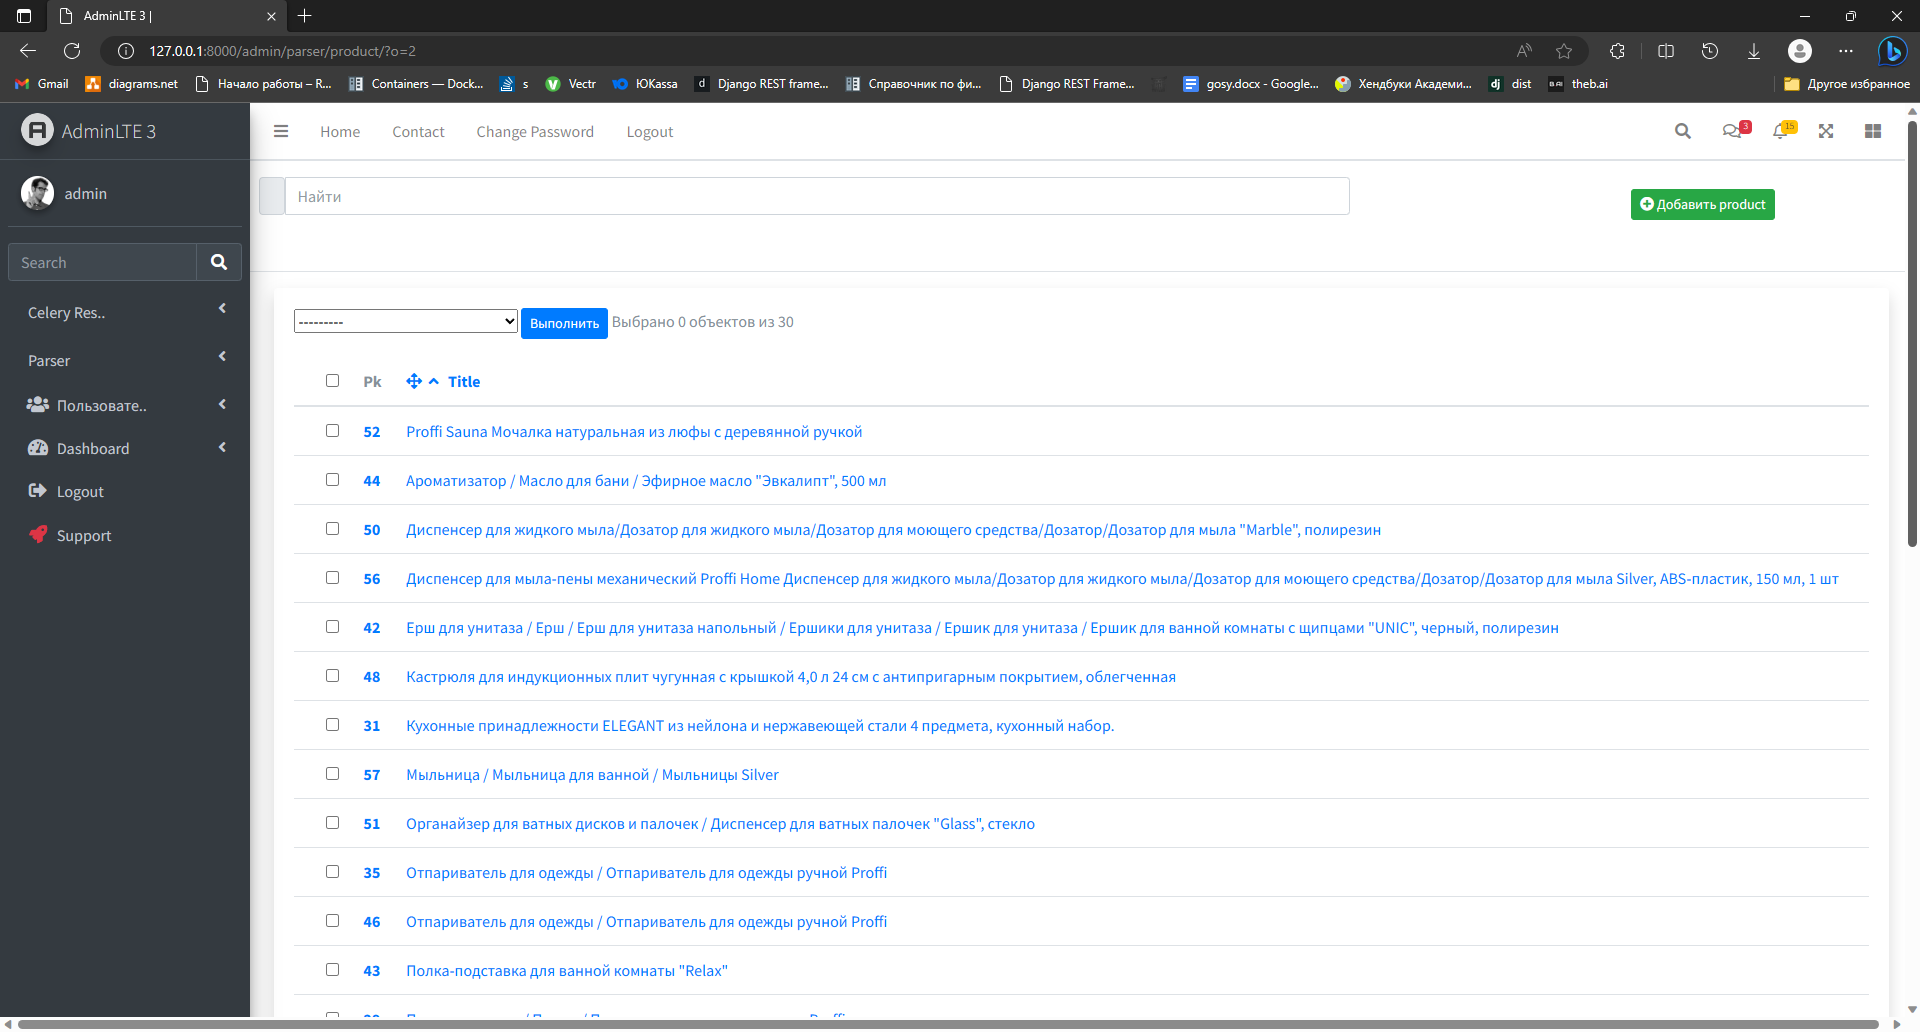
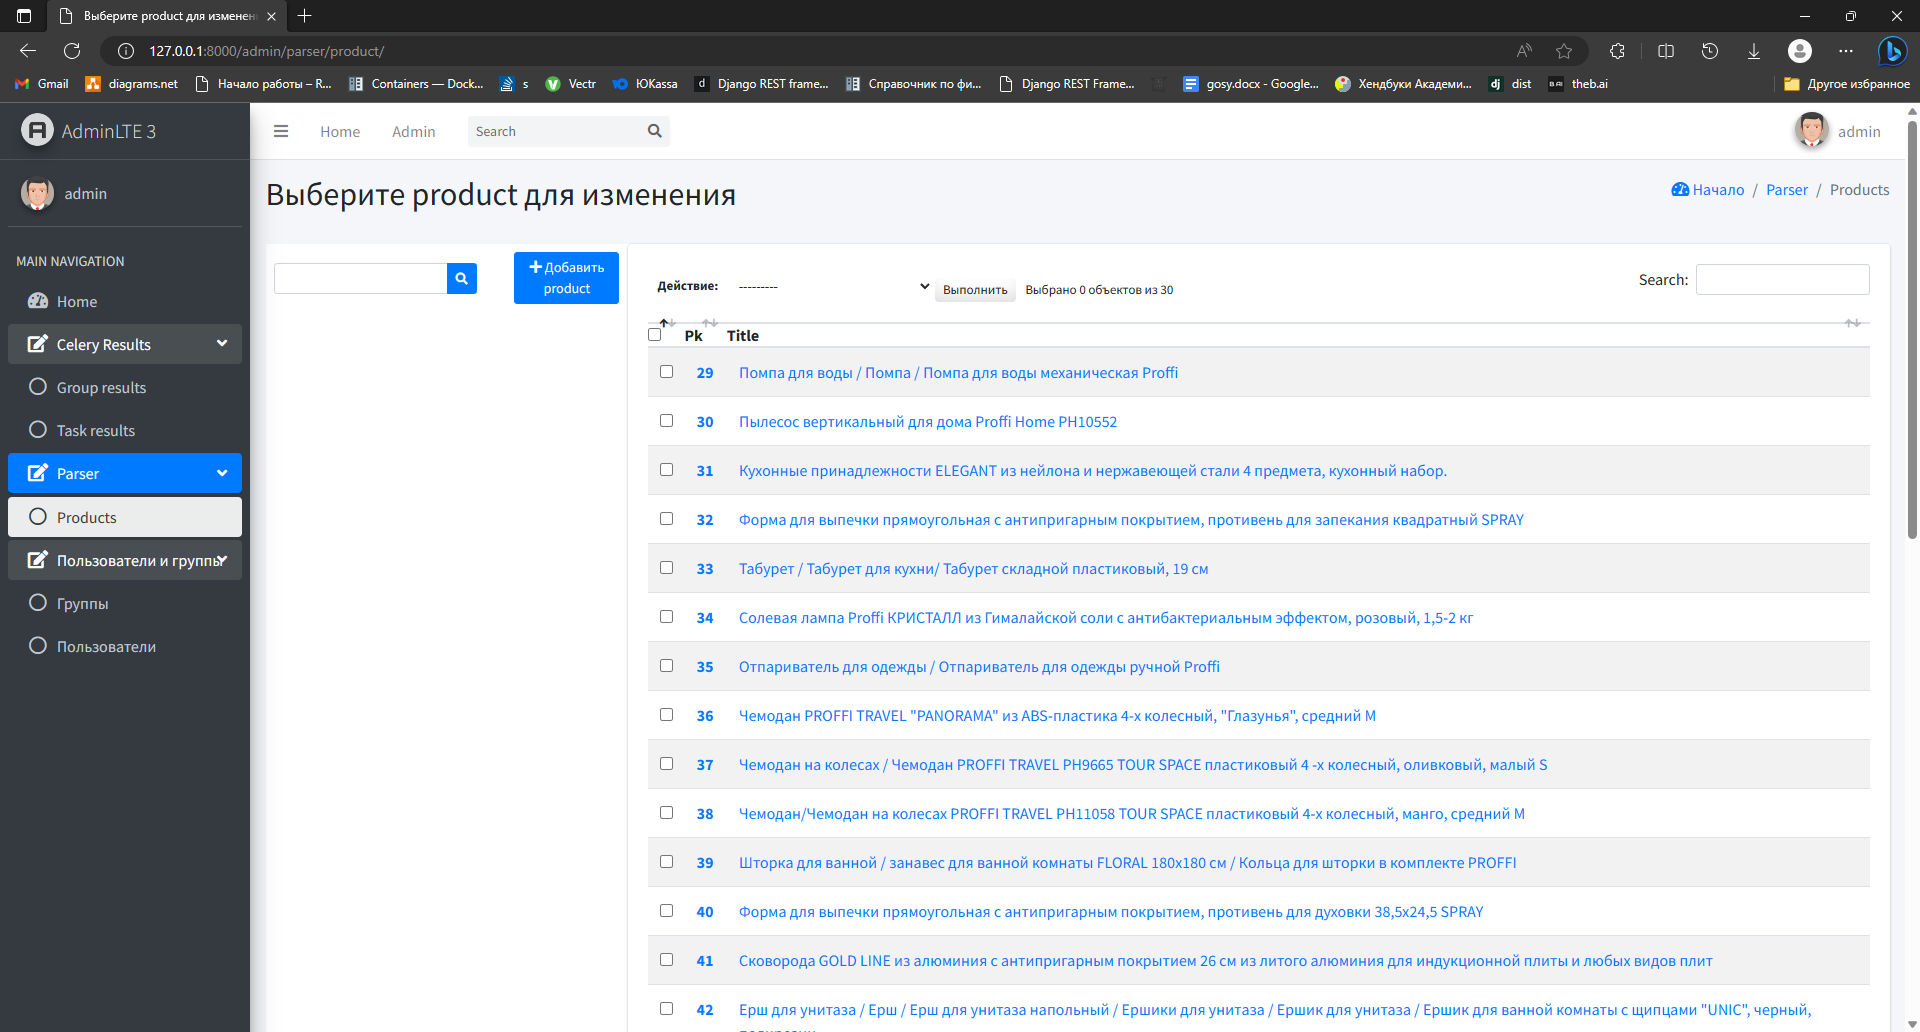
Edited readme file Update admin panel

diff --git a/backend/backend/urls.py b/backend/backend/urls.py
@@ -37,7 +37,7 @@ schema_view = get_schema_view(
 urlpatterns = [
     # admin
     path('admin/', admin.site.urls),
-    path('admin/', include('admin_adminlte.urls')),
+    # path('admin/', include('admin_adminlte.urls')),
 
     # parser
     path('v1/products/', include('parser.urls')),

diff --git a/backend/backend/settings.py b/backend/backend/settings.py
@@ -32,7 +32,8 @@ ALLOWED_HOSTS = []
 # Application definition
 
 INSTALLED_APPS = [
-    'admin_adminlte.apps.AdminAdminlteConfig',
+    'adminlte3',
+    'adminlte3_theme',
     'django.contrib.admin',
     'django.contrib.auth',
     'django.contrib.contenttypes',

diff --git a/README.md b/README.md
@@ -1,8 +1,8 @@
+# login-test-o-parser
+![Админ](adminpanel1.png)
 ![Админ](adminpanel.png)
 
-# login-test-o-parser
-
-Parser ozon products
+**Parser ozon products**
 
 <hr/>
 
